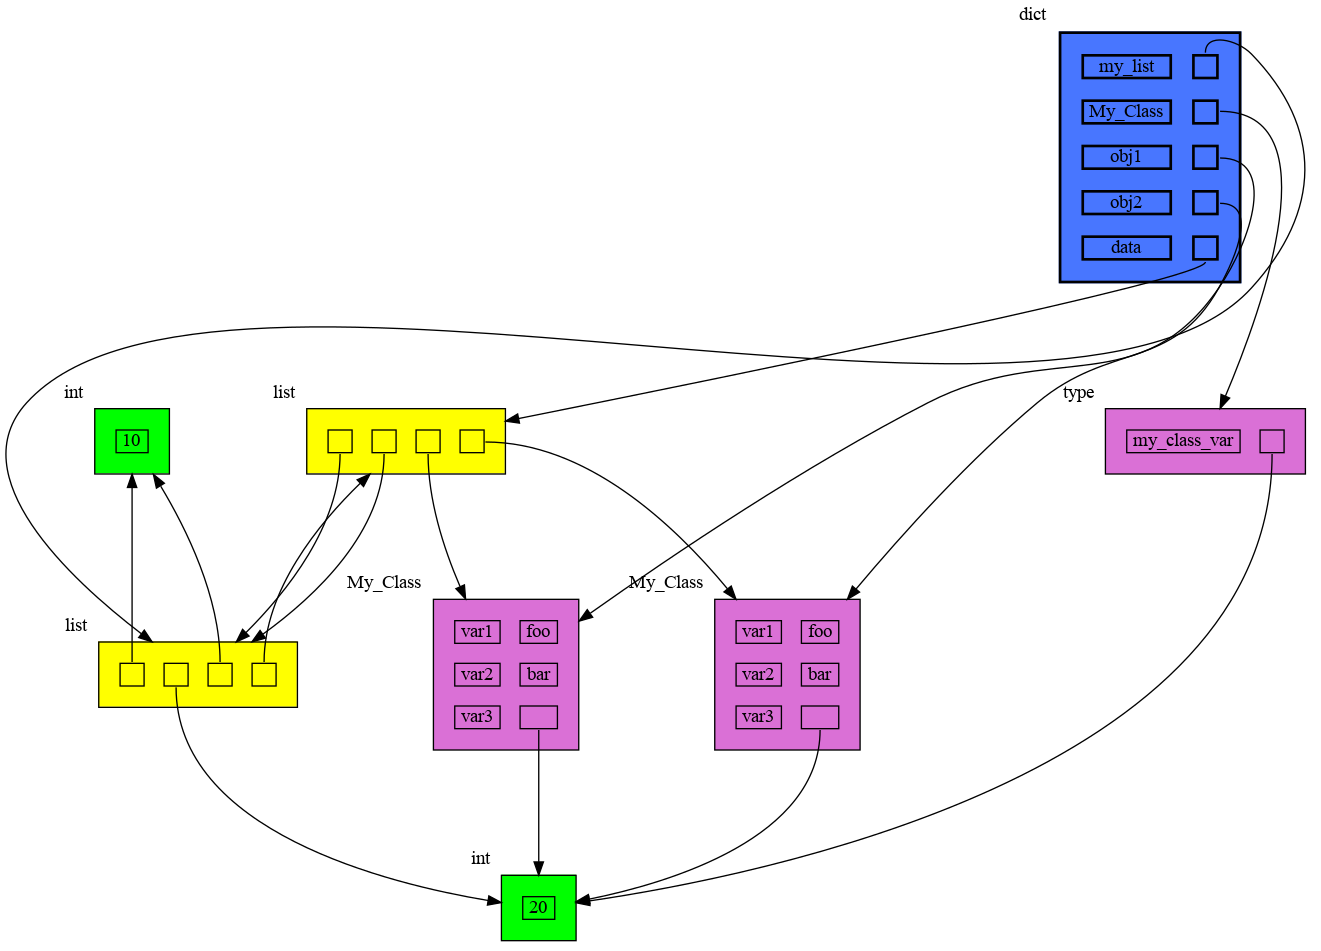
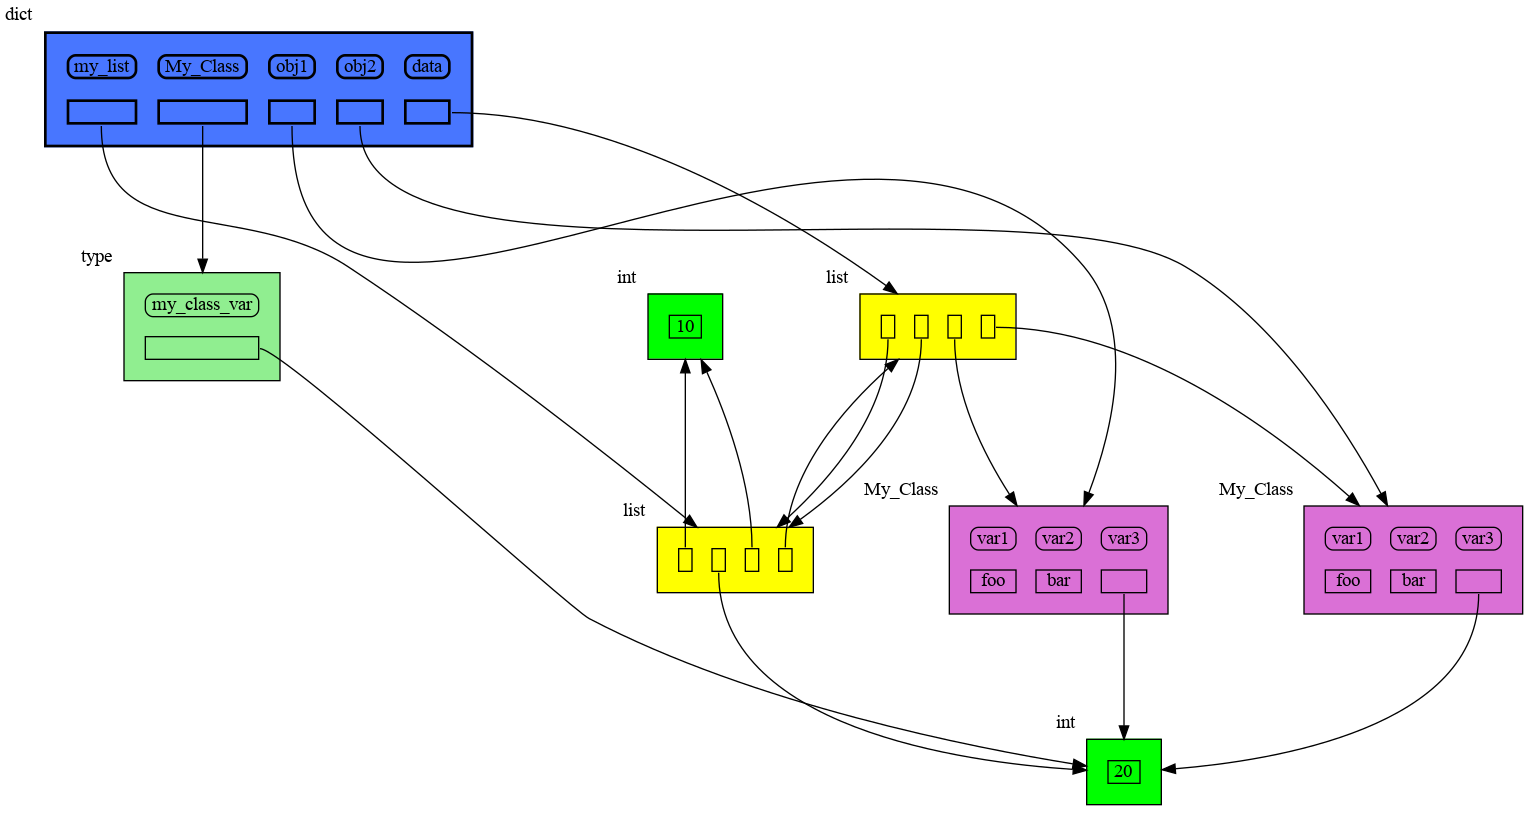
adding categories, adding horizontal layout based on having references

diff --git a/memory_graph/rewrite.py b/memory_graph/rewrite.py
@@ -7,8 +7,6 @@ singular_types={type(None), bool, int, float, complex, str, range, bytes}
 linear_types={tuple, list, set, frozenset, bytearray}
 dict_types={dict,types.MappingProxyType}
 dict_ignore_dunder_keys=True
-rewrite_generators=False
-rewrite_any_iterable=True
 
 def is_custom_accessor_type(value):
     return type(value) in custom_accessor_functions.keys()
@@ -40,10 +38,10 @@ def is_any_iterable(value):
 
 # functions that we rewrite the values with
     
-def construct_singular(data,rewrite_class): # default implementation just returns data
+def construct_singular(data,category): # default implementation just returns data
     return data
 
-def construct_iterable(data,rewrite_class): # default implementation makes a list
+def construct_iterable(data,category): # default implementation makes a list
     return []
     
 def add_to_iterable(iterable,data): # default implementation appends to list
@@ -68,38 +66,38 @@ def get_dict_attribute(value):
 
 memo={} # remember all values to traverse each value only once
 
-def rewrite_singular(singular):
+def rewrite_singular(singular,category):
     identifier=id(singular)
     if not identifier in memo:
-        new_singular=construct_singular_fun(singular,"rewrite_singular")
+        new_singular=construct_singular_fun(singular,category)
         memo[identifier]=new_singular
         return new_singular
     return memo[identifier]
 
-def remember_or_construct_iterable(iterable,rewrite_call):
+def remember_or_construct_iterable(iterable,category):
     identifier=id(iterable)
     if not identifier in memo:
-        memo[identifier]=construct_iterable_fun(iterable,rewrite_call)
+        memo[identifier]=construct_iterable_fun(iterable,category)
         return memo[identifier],True
     return memo[identifier],False
 
-def rewrite_using_custom_accessor(data):
-    new_iterable,is_just_constructed=remember_or_construct_iterable(data,"rewrite_custom")
+def rewrite_using_custom_accessor(data,category):
+    new_iterable,is_just_constructed=remember_or_construct_iterable(data,category)
     if is_just_constructed:
         custom_result=custom_accessor_functions[type(data)](data)
         add_to_iterable_fun(new_iterable,rewrite(custom_result))
     return new_iterable
 
-def rewrite_iterable(iterable):
-    new_iterable,is_just_constructed=remember_or_construct_iterable(iterable,"rewrite_iterable")
+def rewrite_iterable(iterable,category):
+    new_iterable,is_just_constructed=remember_or_construct_iterable(iterable,category)
     if is_just_constructed:
         for i in iterable:
             if not is_ignore_type(i):
                 add_to_iterable_fun(new_iterable,rewrite(i))
     return new_iterable
 
-def rewrite_dict(dictionary):
-    new_iterable,is_just_constructed=remember_or_construct_iterable(dictionary,"rewrite_dict")
+def rewrite_dict(dictionary,category):
+    new_iterable,is_just_constructed=remember_or_construct_iterable(dictionary,category)
     if is_just_constructed:
         for key in dictionary:
             if not type(key) is str or not is_dunder_name(key):
@@ -110,35 +108,32 @@ def rewrite_dict(dictionary):
                         add_to_iterable_fun(new_iterable,rewrite(value))
     return new_iterable
 
-def rewrite_object_with_dict(obj):
-    new_iterable,is_just_constructed=remember_or_construct_iterable(obj,"rewrite_class")
+def rewrite_object_with_dict(obj,category):
+    new_iterable,is_just_constructed=remember_or_construct_iterable(obj,category)
     if is_just_constructed:
         add_to_iterable_fun(new_iterable,rewrite(get_dict_attribute(obj)))
     return new_iterable
 
 def rewrite(data):
     if is_custom_accessor_type(data):
-        return rewrite_using_custom_accessor(data)
+        return rewrite_using_custom_accessor(data,"category_custom")
     elif is_ignore_type(data):
-        return rewrite_singular("ignore_type")
+        return rewrite_singular("ignore_type","category_ignore")
     elif data is None:
-        return rewrite_singular("None") # special case, make a string because value 'None' is later used for not-specified in this software
+        return rewrite_singular("None","category_singular") # special case, make a string because value 'None' is later used for not-specified in this software
     elif is_singular_type(data):
-        return rewrite_singular(data)
+        return rewrite_singular(data,"category_singular")
     elif is_linear_type(data):
-        return rewrite_iterable(data)
+        return rewrite_iterable(data,"category_linear")
     elif is_dict_type(data):
-        return rewrite_dict(data)
+        return rewrite_dict(data,"category_dict")
     elif is_type_with_dict(data):
-        return rewrite_object_with_dict(data)
+        return rewrite_object_with_dict(data,"category_class")
     elif is_generator_type(data):
-        if rewrite_generators:
-            return rewrite_iterable(data)
-        else:
-            return rewrite_singular(str(type(data)))
-    elif rewrite_any_iterable and is_any_iterable(data):
-        return rewrite_iterable(data)
-    return rewrite_singular(str(data)) # unknown type
+        return rewrite_singular(str(type(data)),"category_generator")
+    elif is_any_iterable(data):
+        return rewrite_iterable(data,"category_iterable")
+    return rewrite_singular(str(data),"category_unkown") # unknown type
 
 def rewrite_data(data):
     memo.clear() # forget all previous values

diff --git a/memory_graph/graphviz_nodes.py b/memory_graph/graphviz_nodes.py
@@ -4,16 +4,23 @@ import graphviz
 from memory_graph import Node
 from memory_graph import rewrite
 
-layout_vertical=True
+linear_layout_vertical=True
+linear_any_ref_layout_vertical=False
+linear_all_ref_layout_vertical=False
+key_value_layout_vertical=True
+key_value_any_ref_layout_vertical=True
+key_value_all_ref_layout_vertical=False
 category_to_color_map={
     "NoneType":"gray", "type":"lightgreen", "bool":"pink", "int":"green", "float":"yellow", "str":"cyan", # fundamental types
-    "tuple":"orange", "list":"lightcoral", "set":"darkolivegreen1", "frozenset":"darkolivegreen3", "dict":"royalblue1", "mappingproxy":"royalblue3", "rewrite_class":"orchid" # containers
+    "tuple":"orange", "list":"lightcoral", "set":"darkolivegreen1", "frozenset":"darkolivegreen3", "dict":"royalblue1", "mappingproxy":"royalblue2", # containers
+    "category_class":"orchid" # catergories
 }
+key_color="cornsilk"
 uncategorized_color="red"
 padding=0
 spacing=5
-empty_label="&nbsp;&nbsp;"
-graph_attr={'concentrate':'true'}
+empty_label=""
+graph_attr={}
 node_attr={'shape':'plaintext'}
 edge_attr={}
 
@@ -24,7 +31,7 @@ def get_color(node):
     category=node.get_type_name()
     if category in category_to_color_map:
         return category_to_color_map[category]
-    category=node.get_rewrite_class()
+    category=node.get_category()
     if category in category_to_color_map:
         return category_to_color_map[category]
     return uncategorized_color
@@ -47,10 +54,21 @@ def get_element_label(element):
         return empty_label
     return avoid_html_injection(str(value))
 
-def build_label_line(node,border=1):
+def test_references_linear(node,fun):
+    return fun((not e.get_ref() is None) for e in node.get_elements())
+
+def test_references_key_value(node,fun):
+    return fun((not e.get_ref() is None) for i,e in enumerate(node.get_elements()) if i%2==1)
+
+def build_label_linear(node,border):
     color=get_color(node)
+    vertical=linear_layout_vertical
+    if test_references_linear(node,any):
+        vertical&=linear_any_ref_layout_vertical
+    if test_references_linear(node,all):
+        vertical&=linear_all_ref_layout_vertical
     if len(node.get_elements())>0:
-        if layout_vertical:
+        if vertical:
             cells="".join( (f'<TR><TD PORT="f{index}"> {get_element_label(element)} </TD></TR>' for index,element in enumerate(node.get_elements())) )
         else:
             cells="<TR>"+ "".join( (f'<TD PORT="f{index}"> {get_element_label(element)} </TD>' for index,element in enumerate(node.get_elements())) ) +"</TR>"
@@ -58,26 +76,46 @@ def build_label_line(node,border=1):
         return f'<<TABLE BORDER="0" CELLSPACING="0" CELLPADDING="0" BGCOLOR="{color}"><TR><TD PORT="X"> {table} </TD></TR></TABLE>>'
     return f'<<TABLE BORDER="0" CELLBORDER="1" CELLSPACING="0" CELLPADDING="0" BGCOLOR="{color}"><TR><TD PORT="X"> {empty_label} </TD></TR></TABLE>>'
     
-def build_label_key_value(node,border=1):
+def build_label_key_value(node,border):
     color=get_color(node)
+    vertical=key_value_layout_vertical
+    if test_references_key_value(node,any):
+        vertical&=key_value_any_ref_layout_vertical
+    if test_references_key_value(node,all):
+        vertical&=key_value_all_ref_layout_vertical
     if len(node.get_elements())>0:
         iterator=iter(enumerate(node.get_elements()))
-        cells=""
-        while True:
-            try:
-                ki,k=next(iterator)
-                vi,v=next(iterator)
-                cells+=f'<TR><TD PORT="f{ki}"> {get_element_label(k)} </TD><TD PORT="f{vi}"> {get_element_label(v)} </TD></TR>'
-            except StopIteration:
-                break
+        if vertical:
+            cells=""
+            while True:
+                try:
+                    ki,k=next(iterator)
+                    vi,v=next(iterator)
+                    cells+=f'<TR><TD PORT="f{ki}" STYLE="ROUNDED"> {get_element_label(k)} </TD><TD PORT="f{vi}"> {get_element_label(v)} </TD></TR>'
+                except StopIteration:
+                    break
             table=f'<TABLE BORDER="{border}" CELLSPACING="{spacing}" CELLPADDING="{padding}" BGCOLOR="{color}">{cells}</TABLE>'
+        else:
+            keys='<TR>'
+            values='<TR>'
+            while True:
+                try:
+                    ki,k=next(iterator)
+                    keys+=f'<TD PORT="f{ki}" STYLE="ROUNDED"> {get_element_label(k)} </TD>'
+                    vi,v=next(iterator)
+                    values+=f'<TD PORT="f{vi}"> {get_element_label(v)} </TD>'
+                except StopIteration:
+                    break
+            keys+='</TR>'
+            values+='</TR>'
+            table=f'<TABLE BORDER="{border}" CELLSPACING="{spacing}" CELLPADDING="{padding}" BGCOLOR="{color}">{keys}{values}</TABLE>'
         return f'<<TABLE BORDER="0" CELLSPACING="0" CELLPADDING="0"><TR><TD PORT="X"> {table} </TD></TR></TABLE>>'
     return f'<<TABLE BORDER="0" CELLBORDER="1" CELLSPACING="0" CELLPADDING="0" BGCOLOR="{color}"><TR><TD PORT="X"> {empty_label} </TD></TR></TABLE>>'
     
 def get_node_label(node,border=1):
     if node.is_key_value():
         return build_label_key_value(node,border)
-    return build_label_line(node,border)
+    return build_label_linear(node,border)
 
 def get_refs(node,all_nodes):
     return ((f"{get_node_name(node)}:f{index}",f"{get_node_name(all_nodes[element.get_ref()])}:X")

diff --git a/memory_graph/Node.py b/memory_graph/Node.py
@@ -8,24 +8,25 @@ def print_all_nodes(all_nodes):
 class Node:
     index=0
     
-    def __init__(self,original_data,rewrite_class,key_value=False):
+    def __init__(self,original_data,category,key_value=False):
         self.original_data=original_data
-        self.rewrite_class=rewrite_class
+        self.category=category
         self.key_value=key_value
         self.index=Node.index
         self.elements=[]
         self.ref=None
         all_nodes.append(self)
         Node.index+=1
+        #print(self)
         
     def __repr__(self):
-        return f"index:{self.index} rewrite_class:{self.rewrite_class} type_name:{self.get_type_name()} key_value:{self.key_value} elements:{self.elements}"
+        return f"index:{self.index} category:{self.category} type_name:{self.get_type_name()} key_value:{self.key_value} elements:{self.elements}"
 
     def get_original_data(self):
         return self.original_data
 
-    def get_rewrite_class(self):
-        return self.rewrite_class
+    def get_category(self):
+        return self.category
 
     def is_key_value(self):
         return self.key_value
@@ -44,14 +45,14 @@ class Node:
     def get_elements(self):
         return self.elements
 
-    def add_elements(self,other):
-        if other.get_rewrite_class()!="rewrite_singular":
+    def add_elements(self,child):
+        if child.get_category()!="category_singular":
             if len(self.elements)==0:
-                self.key_value=other.key_value
+                self.key_value=child.key_value
             else:
-                if self.key_value!=other.key_value:
+                if self.key_value!=child.key_value:
                     self.key_value=False  # don't mix
-        for e in other.elements:
+        for e in child.elements:
             self.add_element(e)
         
     def add_element(self,element):

diff --git a/memory_graph/rewrite_to_node.py b/memory_graph/rewrite_to_node.py
@@ -3,22 +3,22 @@ from types import MappingProxyType
 from memory_graph import rewrite
 from memory_graph import Node
 
-reduce_reference_parents={"rewrite_class"}
+reduce_reference_parents={"category_class"}
 reduce_reference_children={"bool", "int", "float", "complex", "str", "range", "bytes"}
 
 def is_reduce_reference(parent,child):
-    return (child.get_type_name() in reduce_reference_children or
-            child.get_rewrite_class() in reduce_reference_children or
-            parent.get_rewrite_class() in reduce_reference_parents or
-            parent.get_type_name() in reduce_reference_parents)
+    return ( child.get_type_name()  in reduce_reference_children or
+             child.get_category()   in reduce_reference_children or
+             parent.get_type_name() in reduce_reference_parents  or
+             parent.get_category()  in reduce_reference_parents )
 
-def my_construct_singular(data,rewrite_class):
-    node=Node.Node(data,rewrite_class)
+def my_construct_singular(data,category):
+    node=Node.Node(data,category)
     node.add_element(Node.Element(value=data))
     return node
 
-def my_construct_iterable(data,rewrite_class):
-    return Node.Node(data,rewrite_class,rewrite_class=="rewrite_dict")
+def my_construct_iterable(data,category):
+    return Node.Node(data,category,category=="category_dict")
     
 def my_add_to_iterable(iterable,data):
     if is_reduce_reference(iterable,data):

diff --git a/images/example3.py b/images/example3.py
@@ -1,11 +1,11 @@
 import memory_graph
 
-memory_graph.graphviz_nodes.layout_vertical = False                       # draw lists,tuples,sets,... horizontally
-memory_graph.graphviz_nodes.type_category_to_color_map['list'] = 'yellow' # change color of 'list' type
-memory_graph.graphviz_nodes.spacing=15                                    # more spacing in each node
-memory_graph.graphviz_nodes.graph_attr['ranksep']='1.2'                   # more vertical separation
-memory_graph.graphviz_nodes.graph_attr['nodesep']='1.2'                   # more horizontal separation
-memory_graph.rewrite_to_node.reduce_reference_types.remove(int)           # draw references to 'int' type
+memory_graph.graphviz_nodes.layout_vertical = False                  # draw lists,tuples,sets,... horizontally
+memory_graph.graphviz_nodes.category_to_color_map['list'] = 'yellow' # change color of 'list' type
+memory_graph.graphviz_nodes.spacing=15                               # more spacing in each node
+memory_graph.graphviz_nodes.graph_attr['ranksep']='1.2'              # more vertical separation
+memory_graph.graphviz_nodes.graph_attr['nodesep']='1.2'              # more horizontal separation
+memory_graph.rewrite_to_node.reduce_reference_children.remove("int") # draw references to 'int' type
 
 my_list = [10, 20, 10]
 

diff --git a/images/example4.py b/images/example4.py
@@ -1,0 +1,16 @@
+import memory_graph
+
+import pandas as pd
+data = {'Name':['Tom', 'Anna', 'Steve', 'Lisa'],
+        'Age':[28,34,29,42],
+        'Length':[1.70,1.66,1.82,1.73] }
+df = pd.DataFrame(data)
+
+
+memory_graph.rewrite.custom_accessor_functions[pd.DataFrame]=lambda d: list(d.iteritems())
+memory_graph.rewrite.custom_accessor_functions[pd.Series]=lambda d: list(d.items())
+memory_graph.rewrite_to_node.reduce_reference_parents.add("DataFrame")
+memory_graph.rewrite_to_node.reduce_reference_parents.add("Series")
+
+
+memory_graph.render( locals(), 'example4.png' )

diff --git a/memory_graph/rewrite_to_string.py b/memory_graph/rewrite_to_string.py
@@ -1,9 +1,9 @@
 from memory_graph import rewrite
 
-def my_construct_singular(data,rewrite_class):
+def my_construct_singular(data,category):
     return str(data)
 
-def my_construct_iterable(data,rewrite_class):
+def my_construct_iterable(data,category):
     return []
     
 def my_add_to_iterable(iterable,data):
